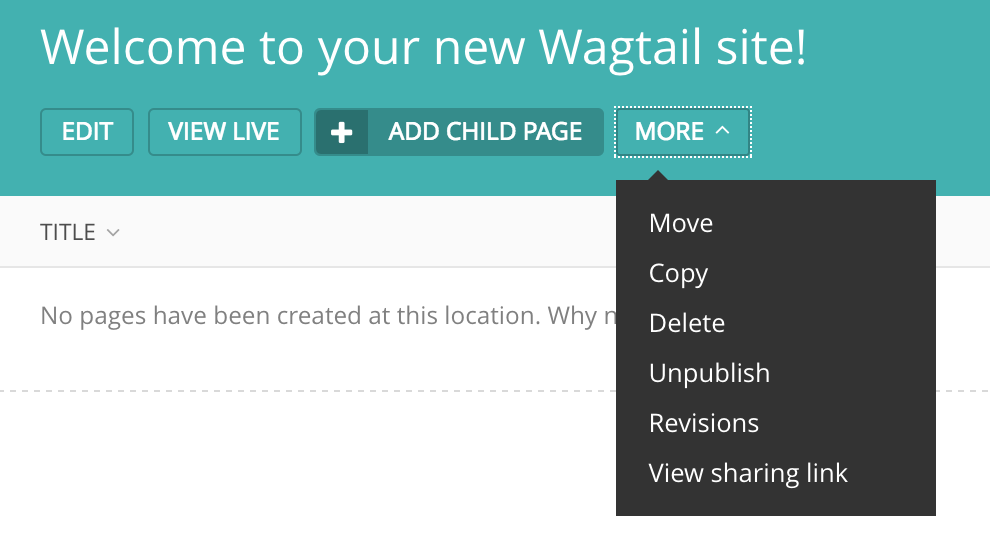
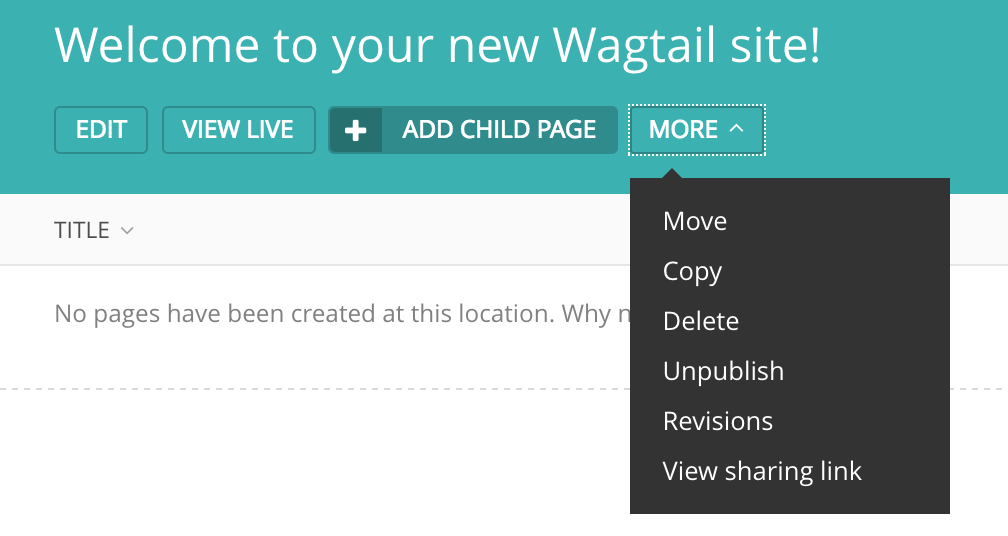
update README re: sharing link in admin

diff --git a/README.md b/README.md
@@ -69,6 +69,14 @@ Pages viewed on a wagtail-sharing shared site have a simple banner added to them
 
 This behavior can be disabled by setting `settings.WAGTAILSHARING_BANNER = False`.  The banner template can be overridden by providing an alternate template file at `wagtailsharing/banner.html` similar to how [wagtailadmin template overrides](http://docs.wagtail.io/en/latest/advanced_topics/customisation/admin_templates.html#customising-admin-templates) are supported.
 
+## Sharing links
+
+A page's sharing URL can be retrieved by passing its `Page` instance to `wagtailsharing.helpers.get_sharing_url`. This method returns `None` if no shared sites are configured or if the specified page is not routable to a shared site.
+
+Shared pages will also have a new dropdown menu option that links to this sharing URL from the Wagtail page explorer.
+
+![Dropdown with sharing link](docs/images/dropdown.png)
+
 ## Compatibility
 
 This project has been tested for compatibility with:
